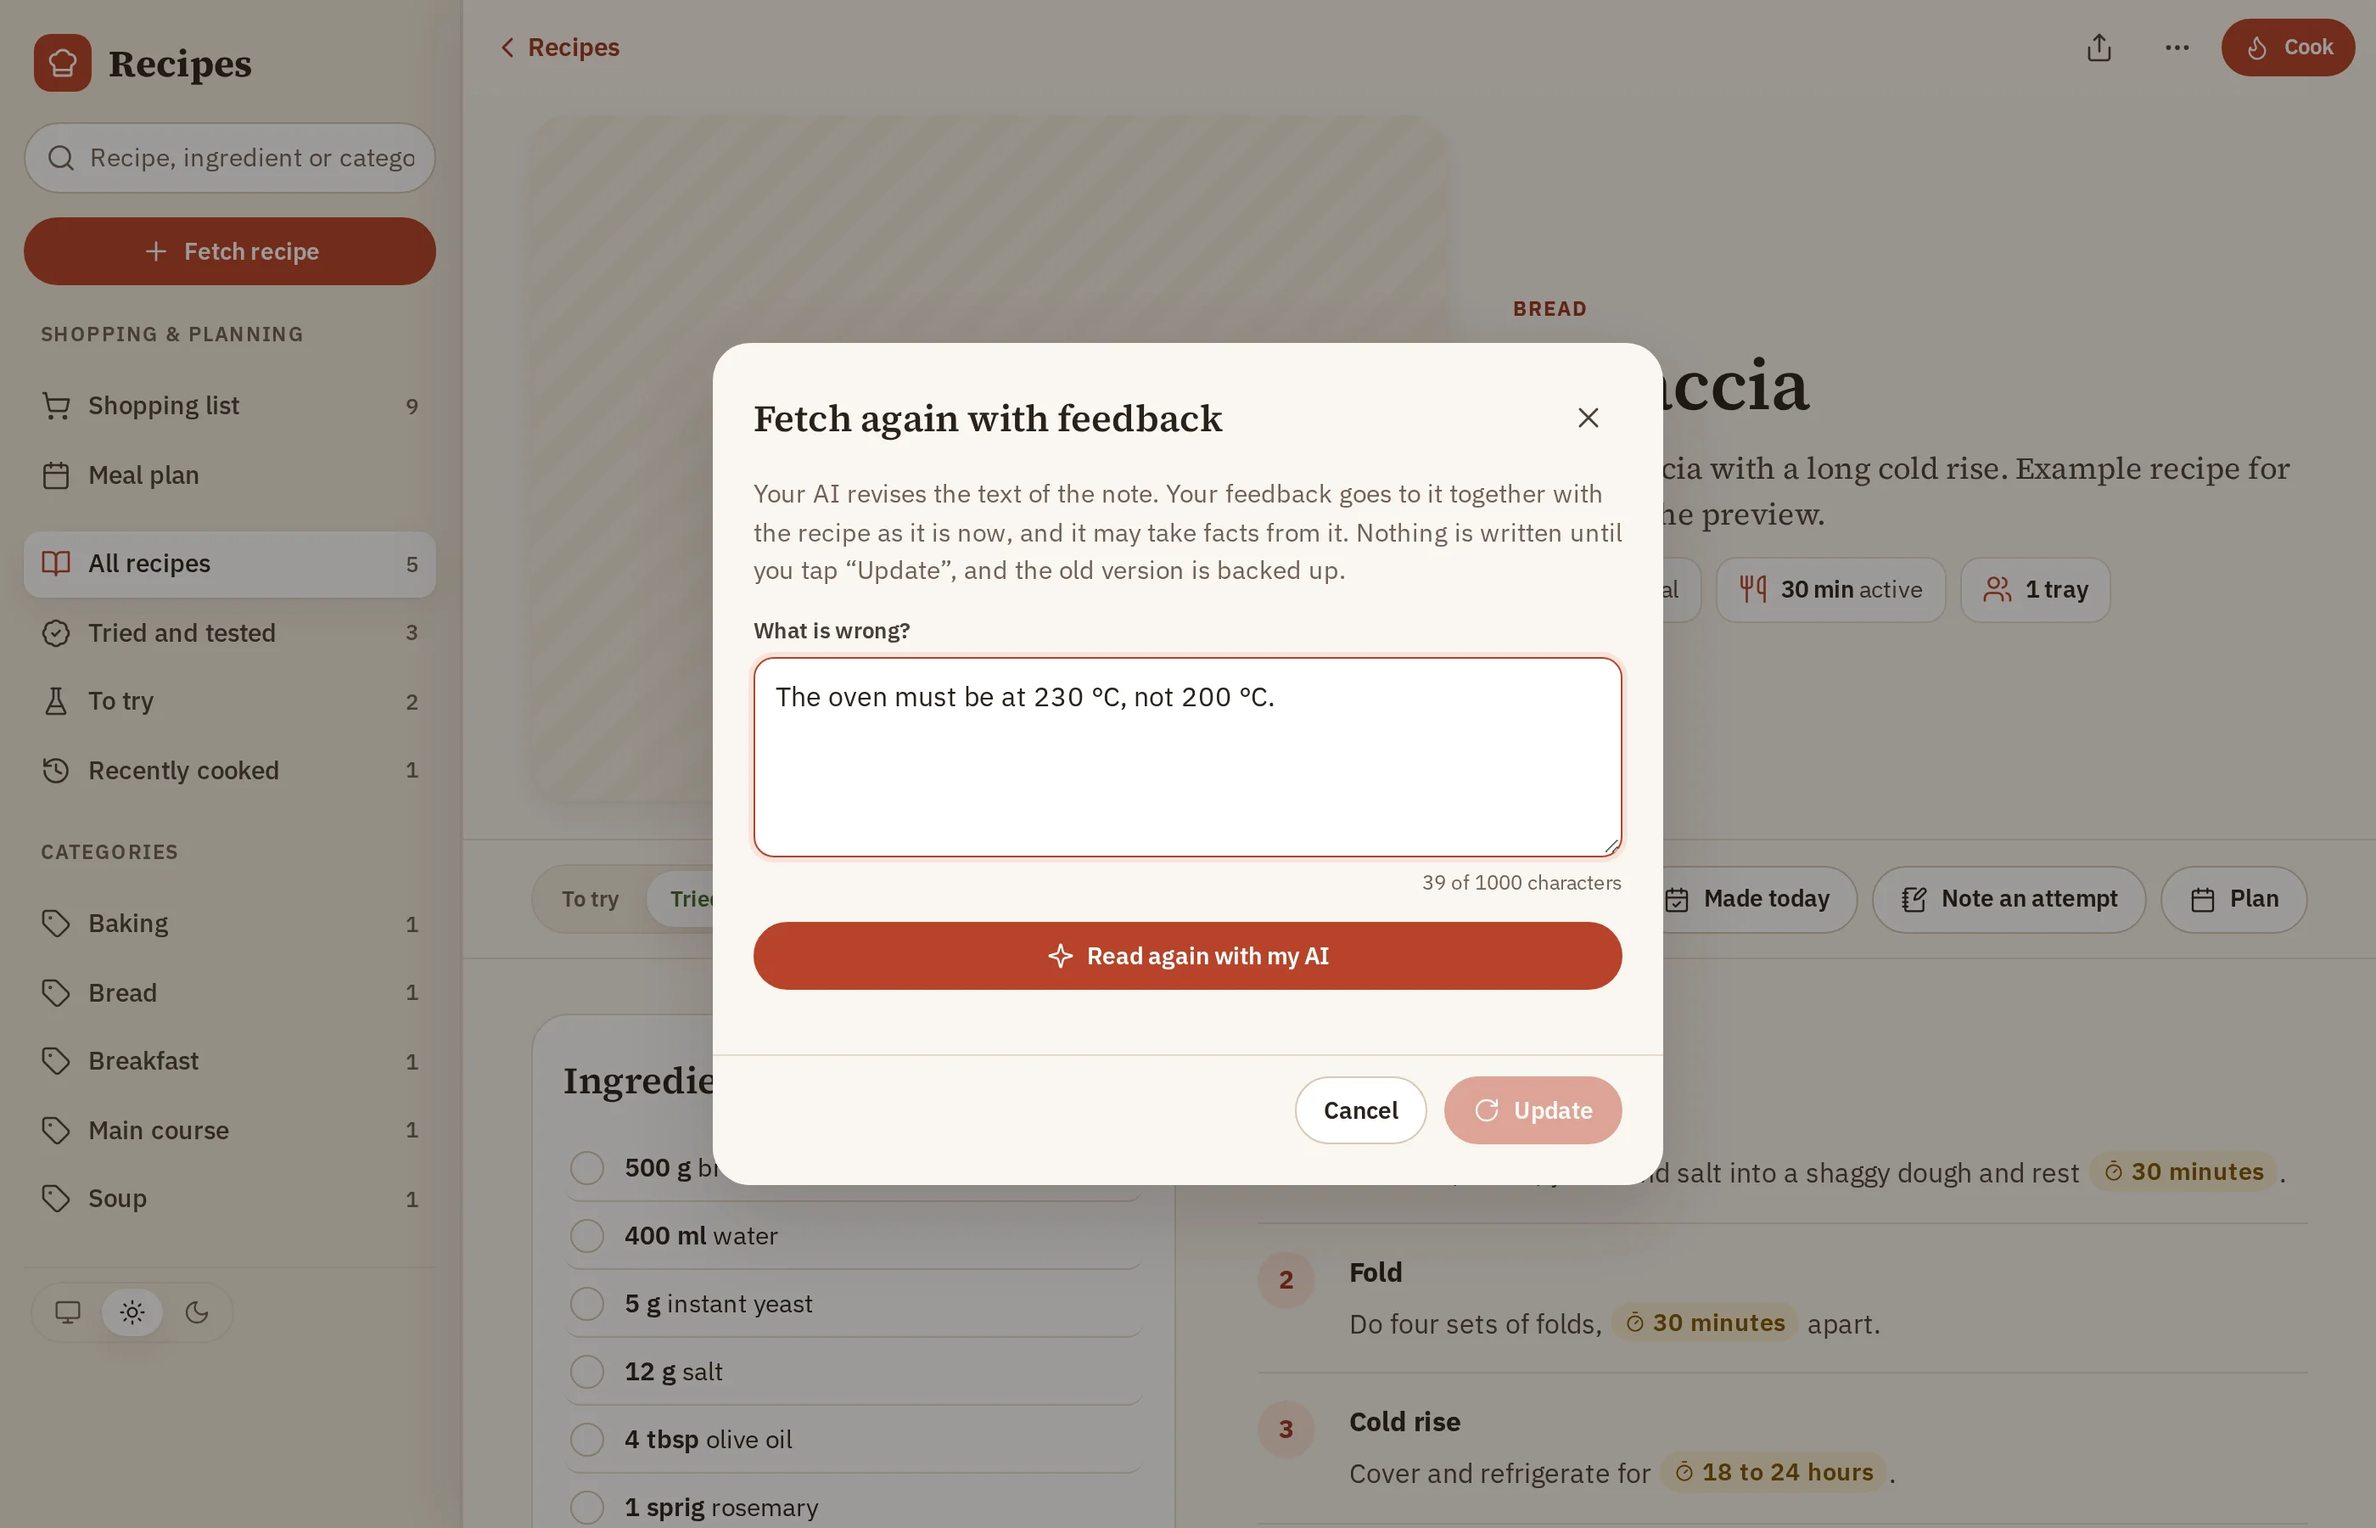
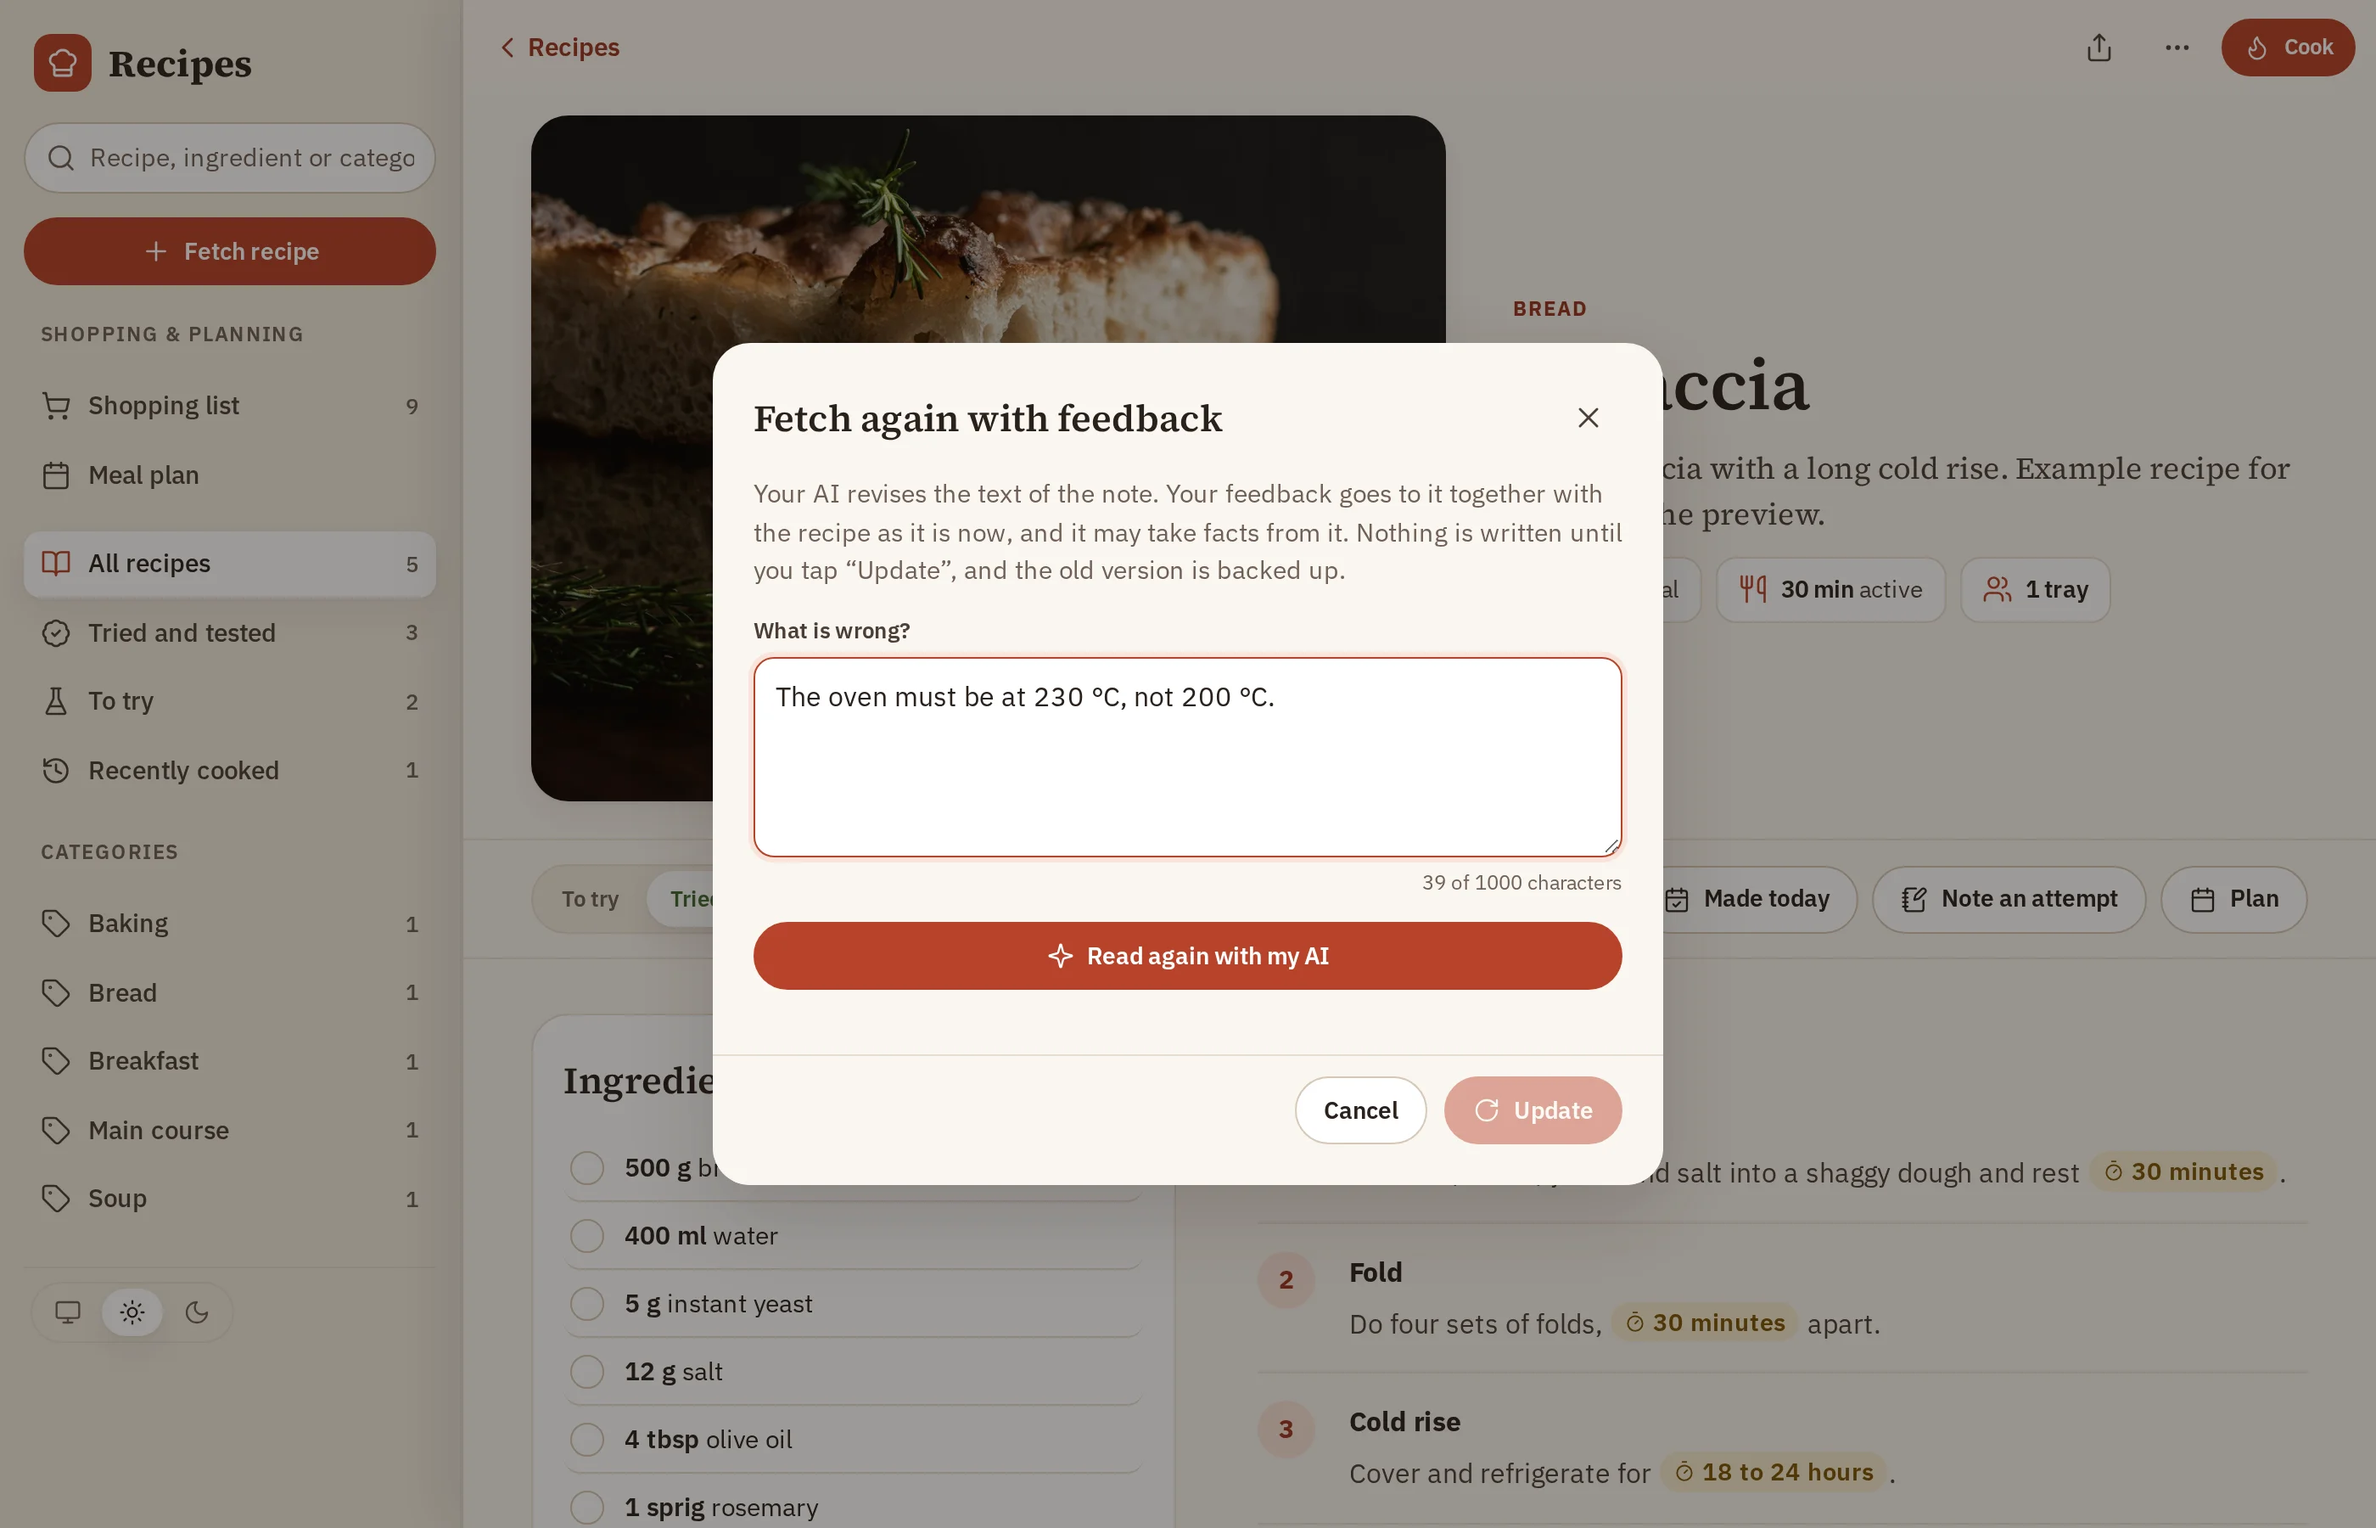
docs: retake screenshots with food photos
Recipe cards and pages showed only the striped placeholder. The images are
retaken with free Unsplash photos fed into the preview only while taking
the screenshots (the photos are not in the repository); credits are in
docs/listing/README.md.

Claude-Session: https://claude.ai/code/session_01FoRi29DfdsGHMxXfCxAuKG

Changed region(s): [[0.2175, 0.0622, 0.6214, 0.5289]]

diff --git a/docs/listing/README.md b/docs/listing/README.md
@@ -1,6 +1,6 @@
 # Directory listing images
 
-Images for the listing of Better Cooking in the Obsidian community directory. All images show the browser preview (`pnpm preview`) with the self-written example recipes of `tests/fixtures/`, English interface (`lang=en`). Nothing in them is private data.
+Images for the listing of Better Cooking in the Obsidian community directory. All images show the browser preview (`pnpm preview`) with the self-written example recipes of `tests/fixtures/`, English interface (`lang=en`). Nothing in them is private data. The food photos on the recipe cards and pages were added only while taking the screenshots; they are not part of this repository.
 
 Order for the listing (desktop and phone are meant to be shown as two groups):
 
@@ -29,3 +29,13 @@ Phone images are taken at a viewport of 450 x 800 px with device scale factor 2 
 ## Suggested keywords
 
 The directory has no fixed category list; the manifest `description` and the README are what it shows and searches. Keywords that fit: recipes, cooking, cookbook, meal plan, shopping list, timer, schema.org.
+
+## Photo credits
+
+The recipe photos in the images are free to use under the Unsplash License. Credits as a courtesy:
+
+- Photos: Unsplash, Diego Arenas de Rodrigo, https://unsplash.com/photos/kOU7kMox_2Y (Focaccia)
+- Photos: Unsplash, Cody Chan, https://unsplash.com/photos/a0fBbS8RZAo (Banana Bread)
+- Photos: Unsplash, Alex Bayev, https://unsplash.com/photos/s8GfYrV88vo (Overnight Oats)
+- Photos: Unsplash, Nathan Dumlao, https://unsplash.com/photos/hWDYfmyAz4g (Red Lentil Soup, a red tomato-style soup)
+- Photos: Unsplash, Vinn Koonyosying, https://unsplash.com/photos/PLyJqEJVre0 (Weeknight Tomato Pasta)
